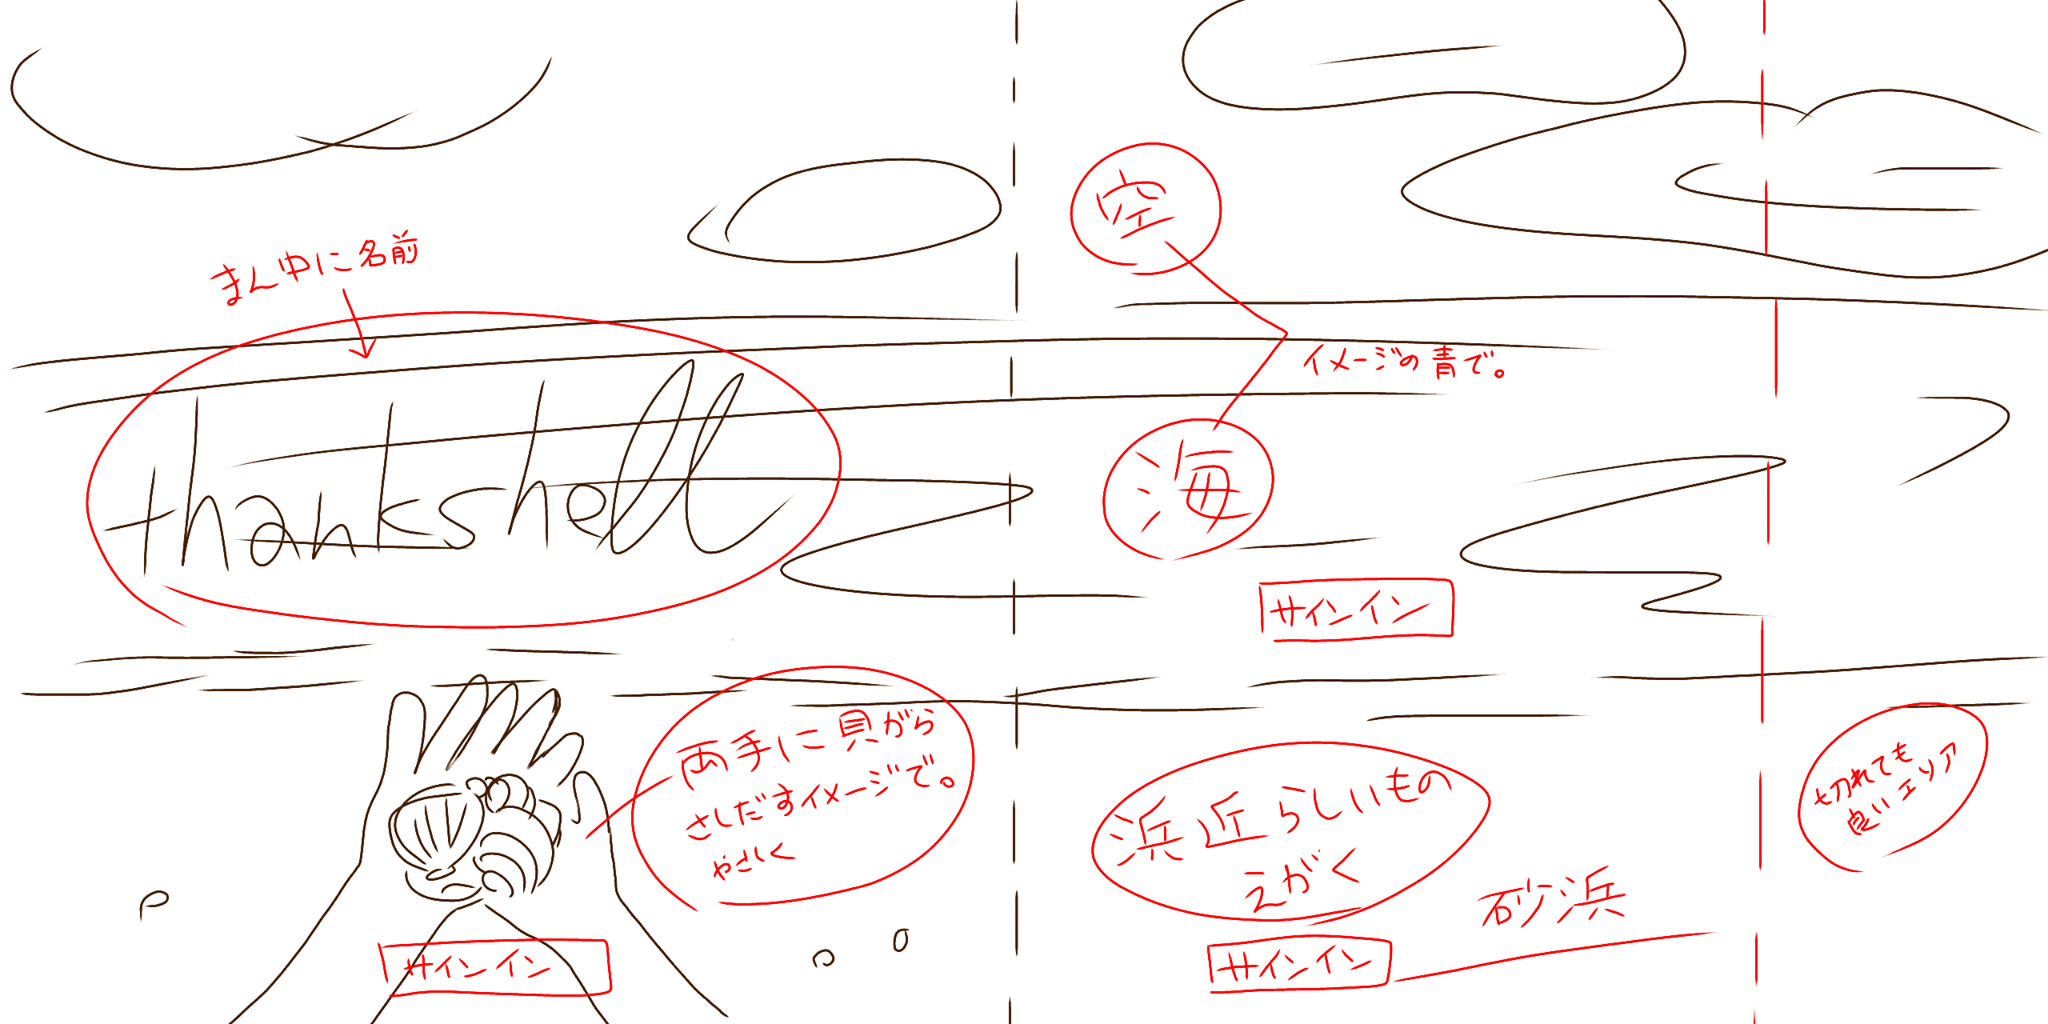
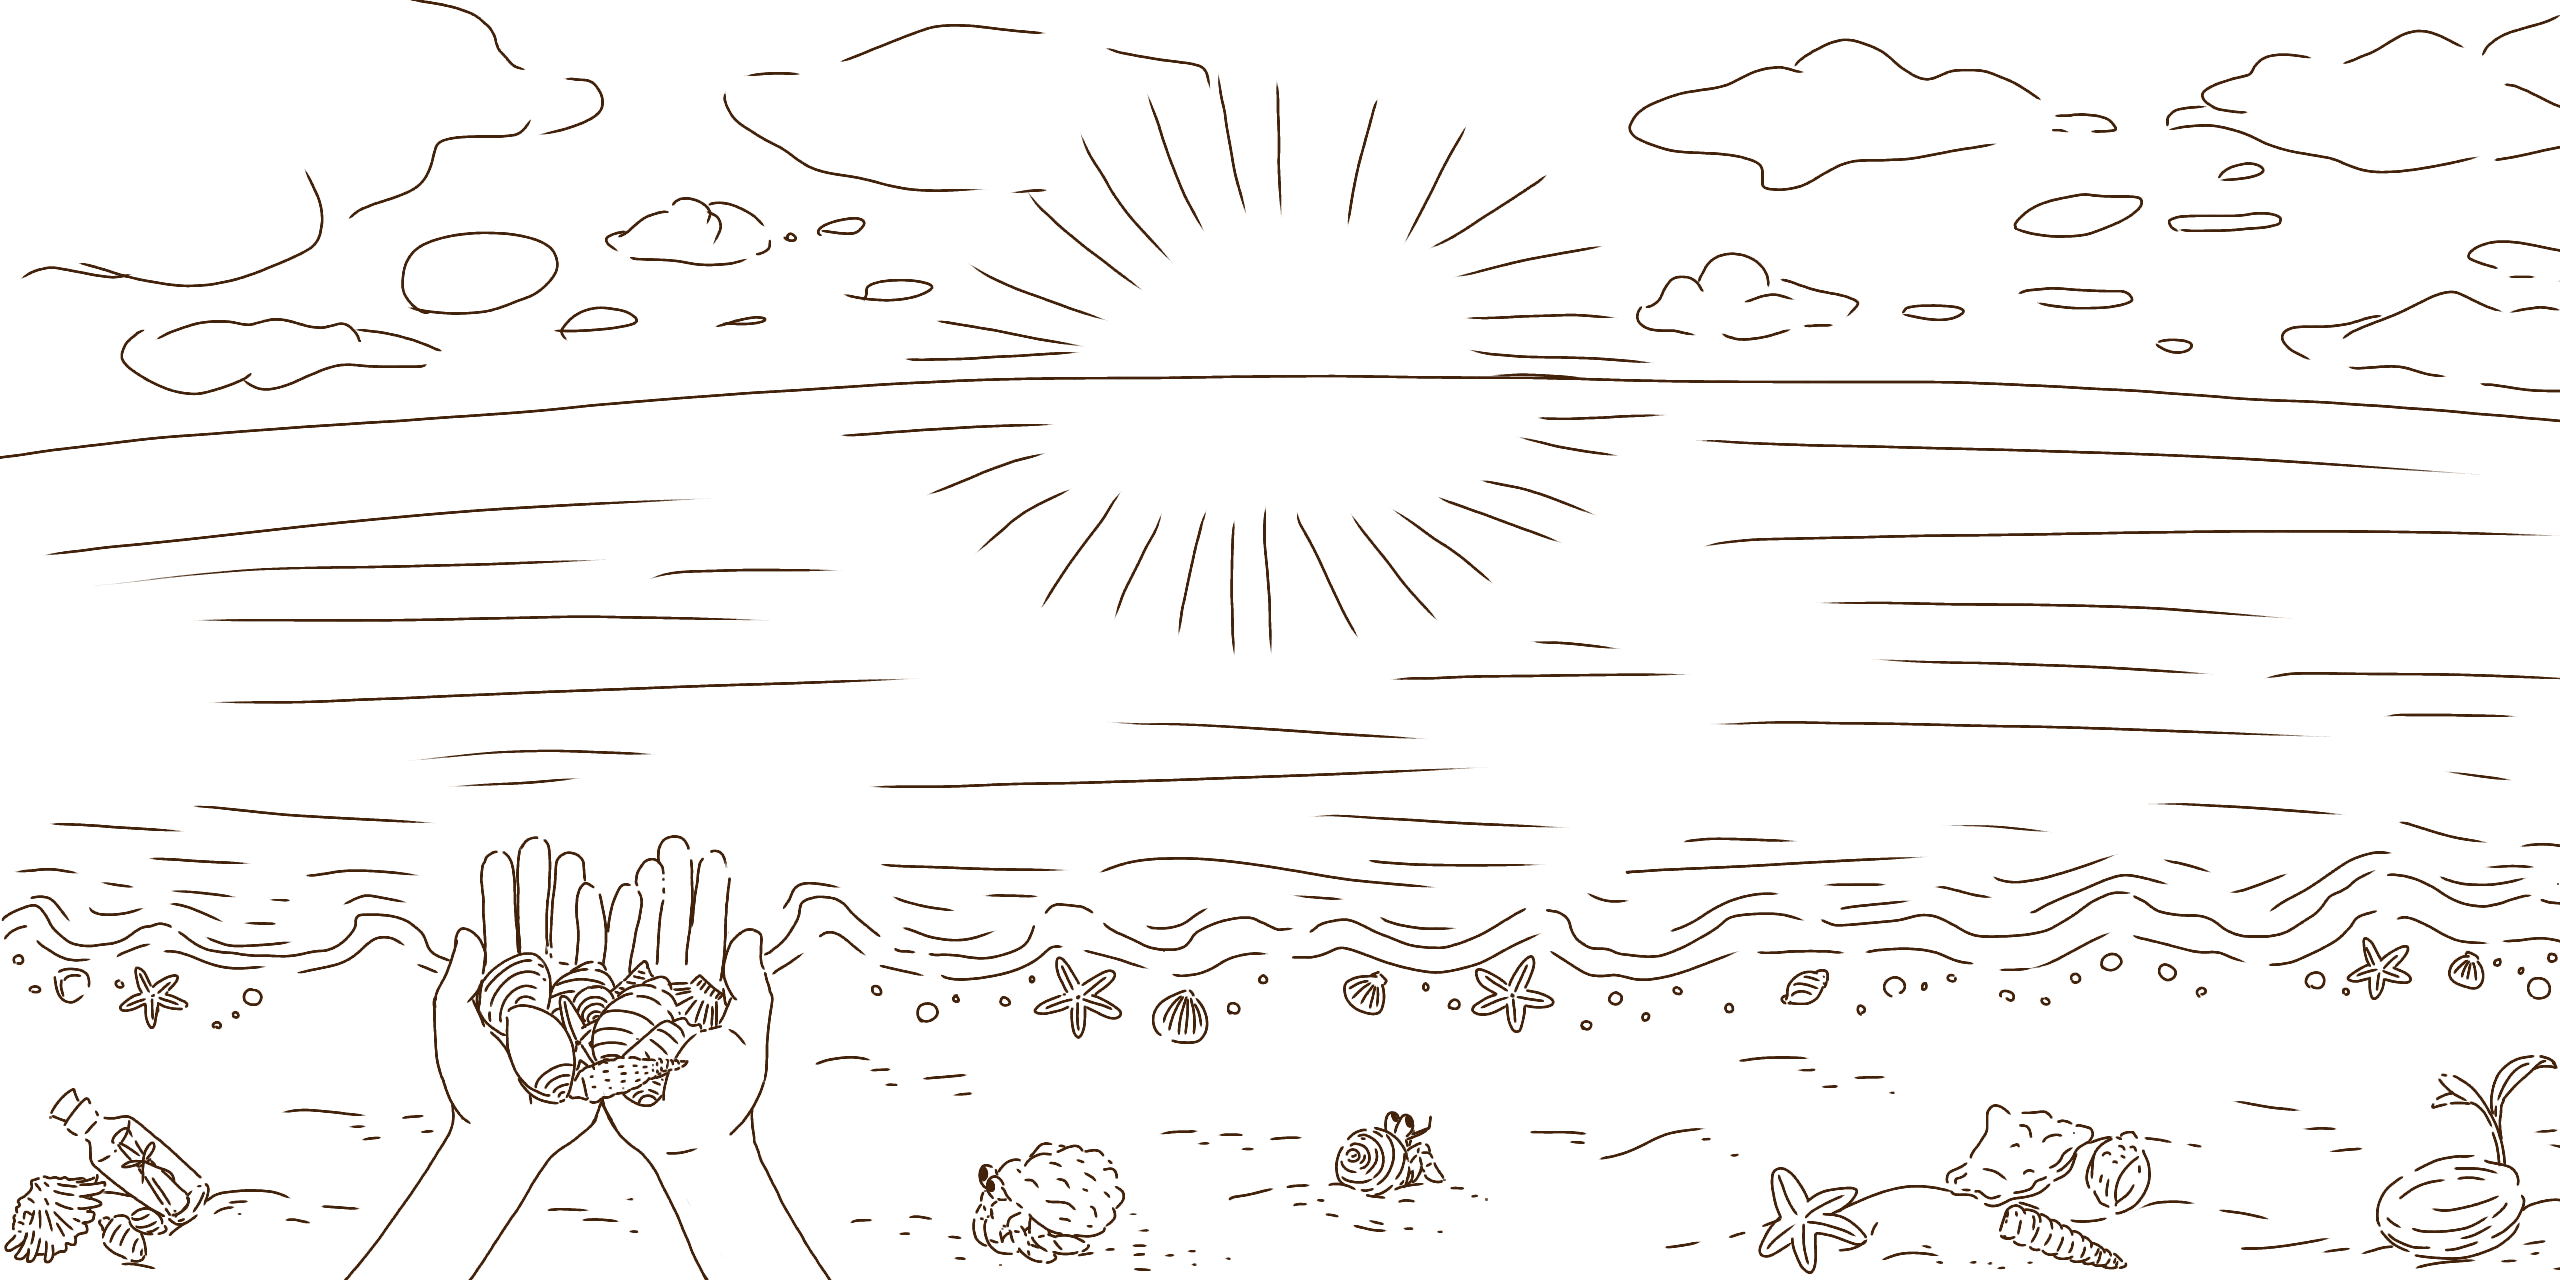
Add hero image for mobile

diff --git a/app/css/thankshell.css b/app/css/thankshell.css
@@ -23,6 +23,13 @@ footer a {
     height: 90%;
 }
 
+@media screen and (max-width:380px) {
+    .hero {
+        background-image: url("/images/hero-mobile.png");
+        background-position: 50% 100%;
+    }
+}
+
 .hero div {
     position: relative;
     height: 100%;
